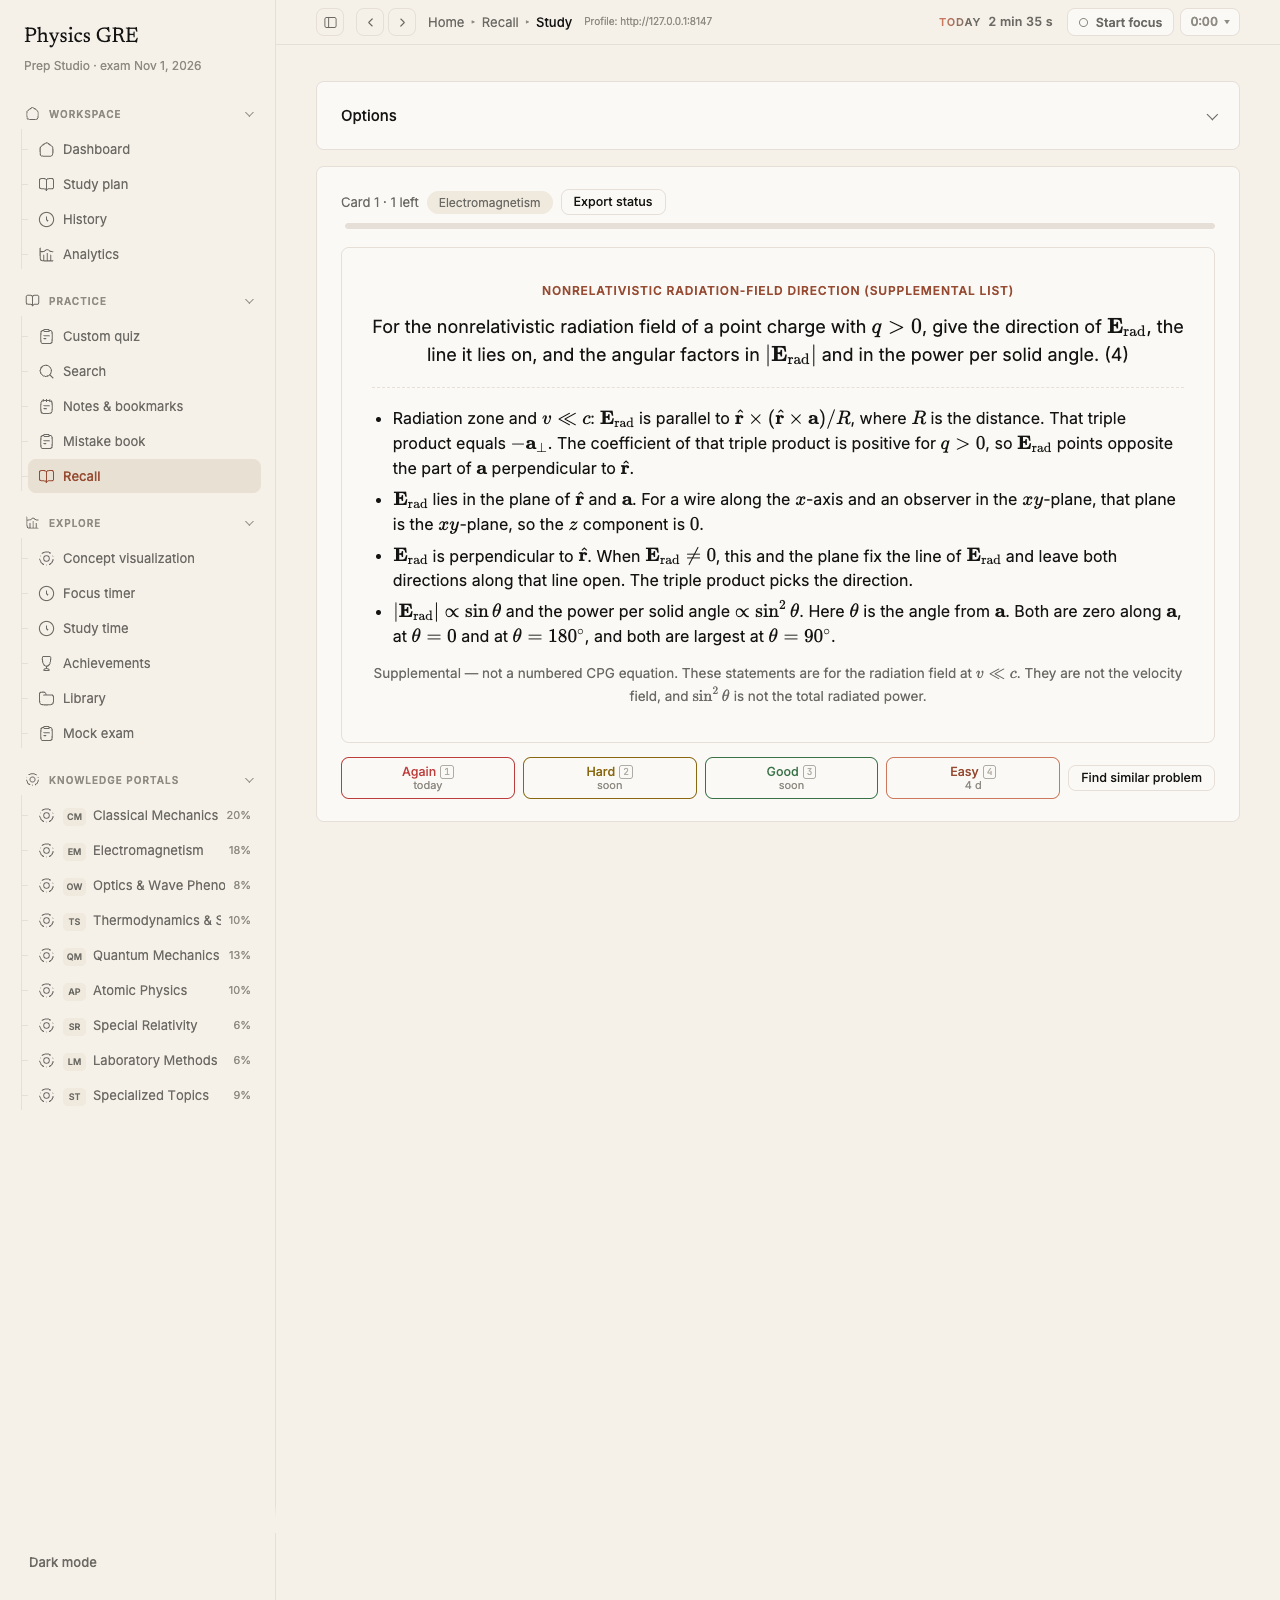
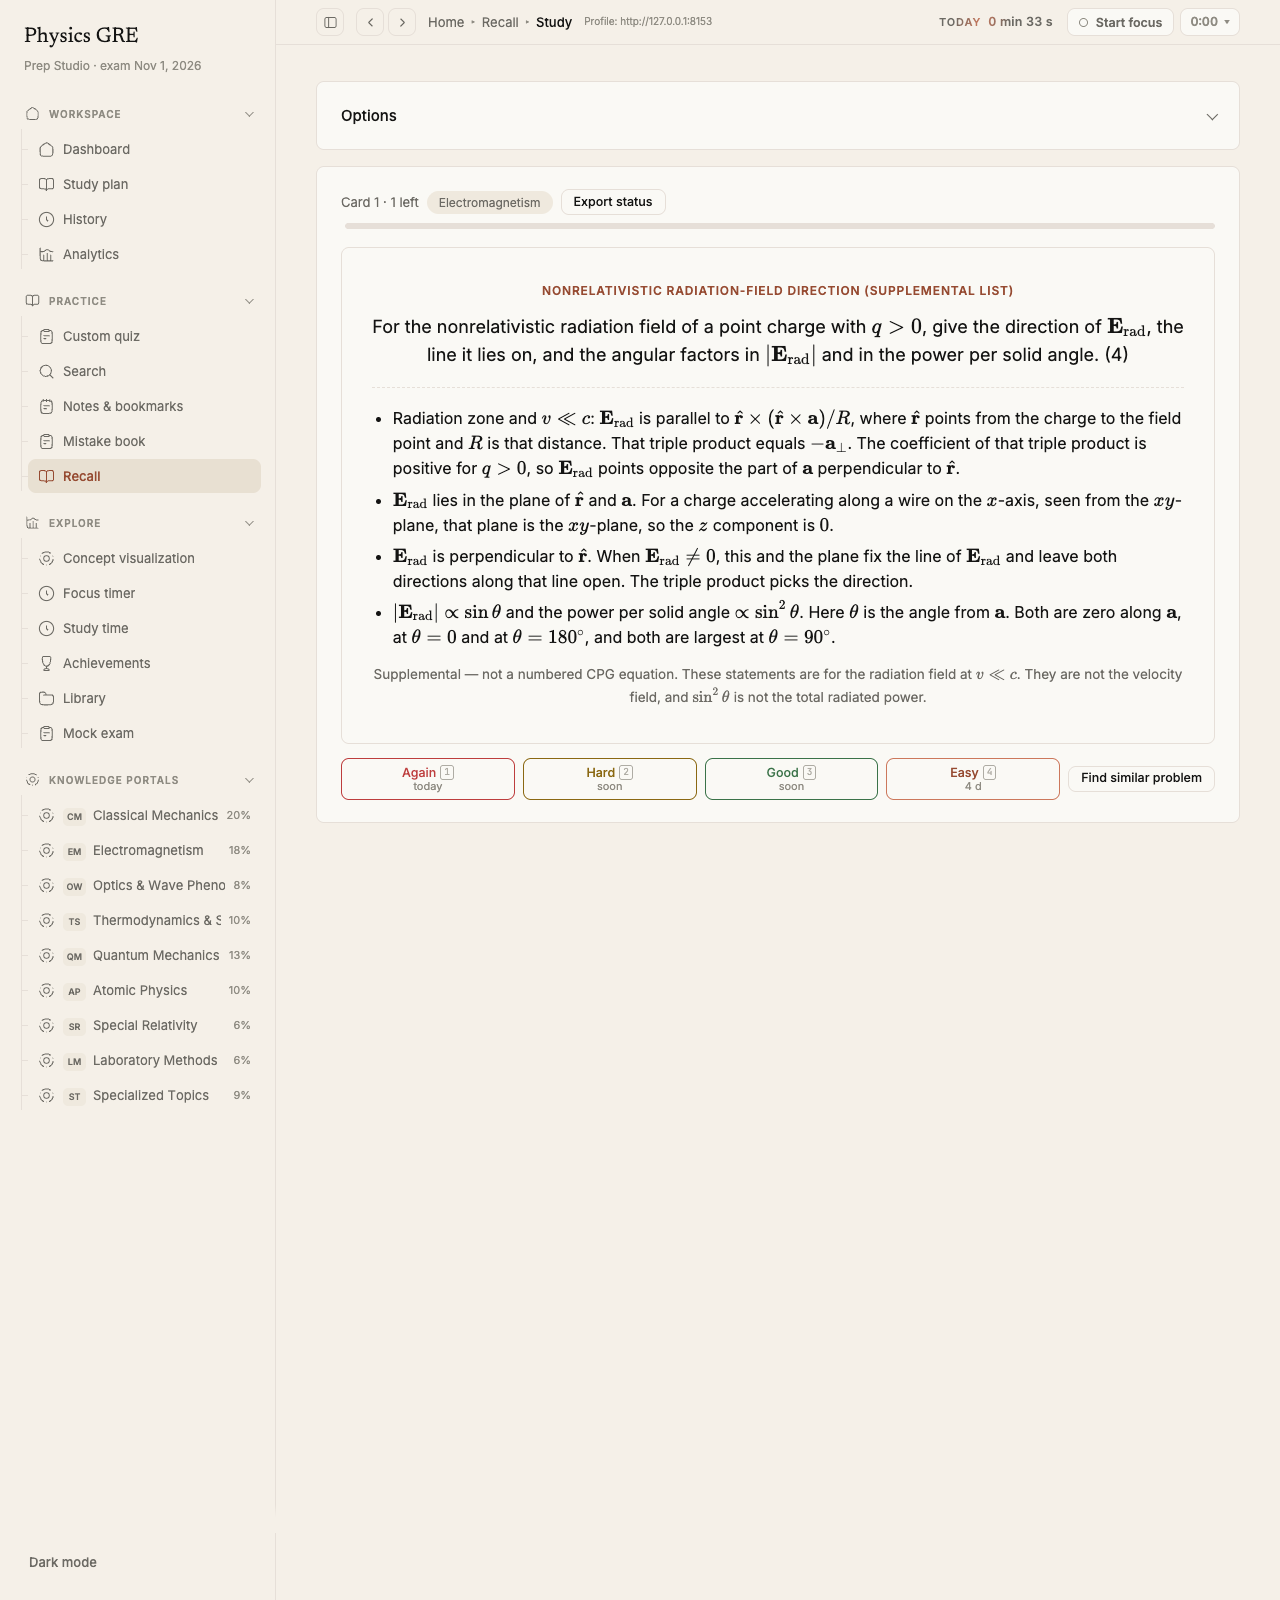
Define the radiation-field direction and the accelerating wire.
The unit vector points from the charge to the field point, and the wire example says the charge accelerates along the wire.

diff --git a/js/data-formulas.js b/js/data-formulas.js
@@ -790,7 +790,7 @@ PGRE.FORMULAS = [
     tag: "Radiation field",
     name: "Nonrelativistic radiation-field direction (supplemental list)",
     front: "For the nonrelativistic radiation field of a point charge with $q > 0$, give the direction of $\\mathbf{E}_{\\mathrm{rad}}$, the line it lies on, and the angular factors in $|\\mathbf{E}_{\\mathrm{rad}}|$ and in the power per solid angle. (4)",
-    back: "<ul class=\"recall-list\"><li>Radiation zone and $v \\ll c$: $\\mathbf{E}_{\\mathrm{rad}}$ is parallel to $\\hat{\\mathbf{r}}\\times(\\hat{\\mathbf{r}}\\times\\mathbf{a})/R$, where $R$ is the distance. That triple product equals $-\\mathbf{a}_{\\perp}$. The coefficient of that triple product is positive for $q > 0$, so $\\mathbf{E}_{\\mathrm{rad}}$ points opposite the part of $\\mathbf{a}$ perpendicular to $\\hat{\\mathbf{r}}$.</li><li>$\\mathbf{E}_{\\mathrm{rad}}$ lies in the plane of $\\hat{\\mathbf{r}}$ and $\\mathbf{a}$. For a wire along the $x$-axis and an observer in the $xy$-plane, that plane is the $xy$-plane, so the $z$ component is $0$.</li><li>$\\mathbf{E}_{\\mathrm{rad}}$ is perpendicular to $\\hat{\\mathbf{r}}$. When $\\mathbf{E}_{\\mathrm{rad}} \\ne 0$, this and the plane fix the line of $\\mathbf{E}_{\\mathrm{rad}}$ and leave both directions along that line open. The triple product picks the direction.</li><li>$|\\mathbf{E}_{\\mathrm{rad}}| \\propto \\sin\\theta$ and the power per solid angle $\\propto \\sin^2\\theta$. Here $\\theta$ is the angle from $\\mathbf{a}$. Both are zero along $\\mathbf{a}$, at $\\theta = 0$ and at $\\theta = 180^\\circ$, and both are largest at $\\theta = 90^\\circ$.</li></ul>",
+    back: "<ul class=\"recall-list\"><li>Radiation zone and $v \\ll c$: $\\mathbf{E}_{\\mathrm{rad}}$ is parallel to $\\hat{\\mathbf{r}}\\times(\\hat{\\mathbf{r}}\\times\\mathbf{a})/R$, where $\\hat{\\mathbf{r}}$ points from the charge to the field point and $R$ is that distance. That triple product equals $-\\mathbf{a}_{\\perp}$. The coefficient of that triple product is positive for $q > 0$, so $\\mathbf{E}_{\\mathrm{rad}}$ points opposite the part of $\\mathbf{a}$ perpendicular to $\\hat{\\mathbf{r}}$.</li><li>$\\mathbf{E}_{\\mathrm{rad}}$ lies in the plane of $\\hat{\\mathbf{r}}$ and $\\mathbf{a}$. For a charge accelerating along a wire on the $x$-axis, seen from the $xy$-plane, that plane is the $xy$-plane, so the $z$ component is $0$.</li><li>$\\mathbf{E}_{\\mathrm{rad}}$ is perpendicular to $\\hat{\\mathbf{r}}$. When $\\mathbf{E}_{\\mathrm{rad}} \\ne 0$, this and the plane fix the line of $\\mathbf{E}_{\\mathrm{rad}}$ and leave both directions along that line open. The triple product picks the direction.</li><li>$|\\mathbf{E}_{\\mathrm{rad}}| \\propto \\sin\\theta$ and the power per solid angle $\\propto \\sin^2\\theta$. Here $\\theta$ is the angle from $\\mathbf{a}$. Both are zero along $\\mathbf{a}$, at $\\theta = 0$ and at $\\theta = 180^\\circ$, and both are largest at $\\theta = 90^\\circ$.</li></ul>",
     note: "Supplemental — not a numbered CPG equation. These statements are for the radiation field at $v \\ll c$. They are not the velocity field, and $\\sin^2\\theta$ is not the total radiated power."
   },
 ];

diff --git a/tools/test-public-formulas.js b/tools/test-public-formulas.js
@@ -226,6 +226,10 @@ assert(rad && /leave both directions along that line open/.test(rad.back),
   'the plane and transversality do not fix the sense');
 assert(rad && !/completely lock/i.test(radText) && !/dipole axis/i.test(radText),
   'the card does not keep the unlocked direction claim');
+assert(rad && rad.back.indexOf('accelerating along') !== -1,
+  'the wire bullet says the charge is accelerating along the wire');
+assert(rad && rad.back.indexOf('from the charge') !== -1,
+  'r-hat is defined as pointing from the charge to the field point');
 
 EXPECTED.forEach(function (id) {
   var c = byId[id];

diff --git a/index.html b/index.html
@@ -130,7 +130,7 @@
   <!-- data -->
   <script src="js/data-topics.js?v=20260916f" defer></script>
   <script src="js/data-questions.js?v=20260916f" defer></script>
-  <script src="js/data-formulas.js?v=20261002b" defer></script>
+  <script src="js/data-formulas.js?v=20261002c" defer></script>
   <script src="js/data-achievements.js?v=20260929b" defer></script>
   <script src="js/data-plan.js?v=20260916f" defer></script>
   <script src="js/data-packs.js?v=20260916f" defer></script>
